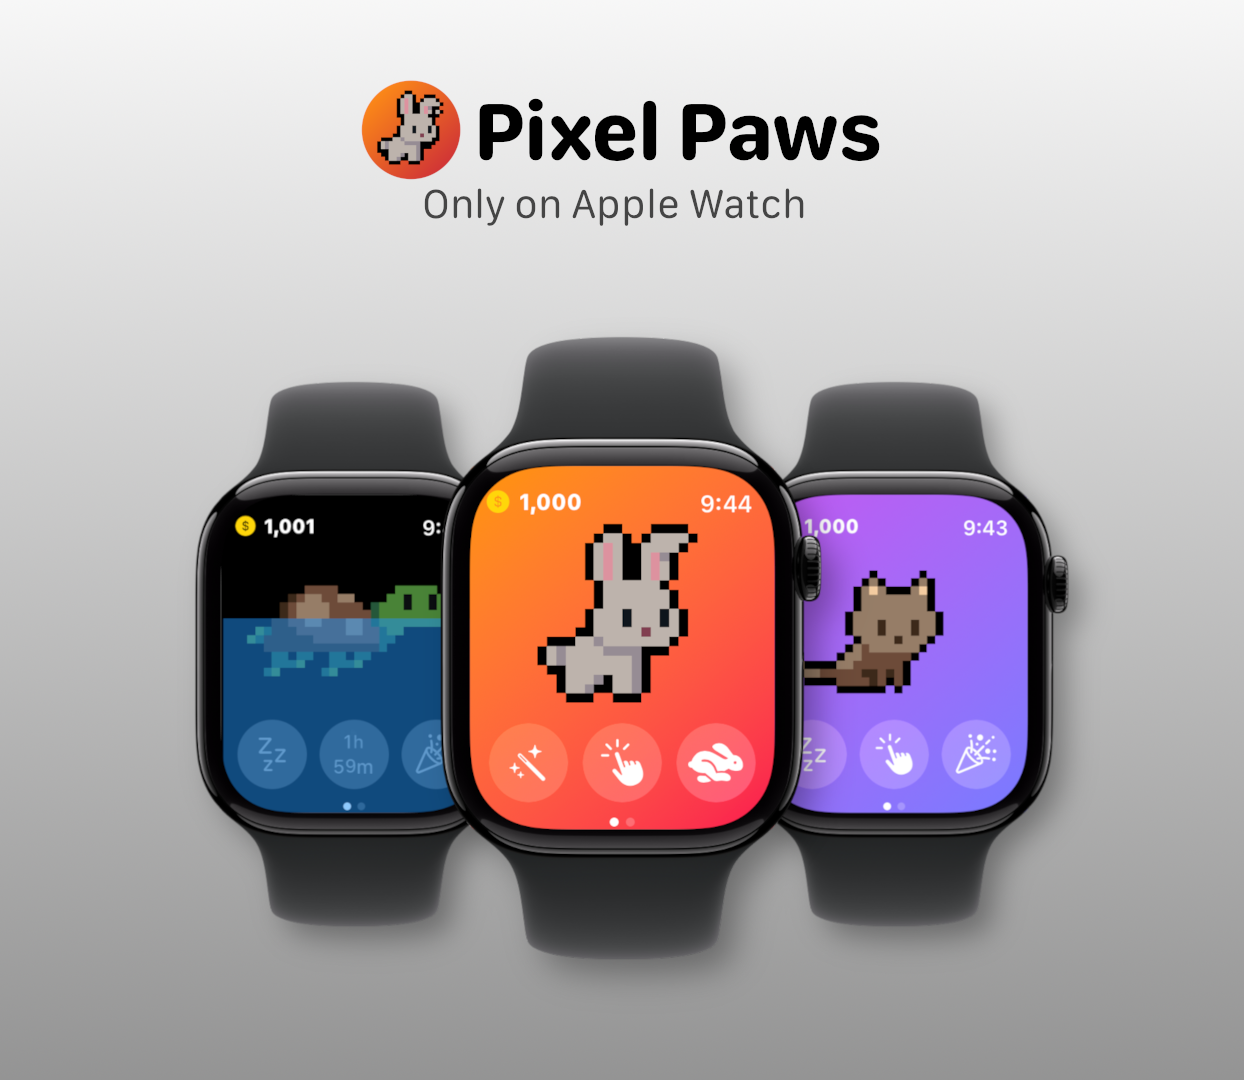
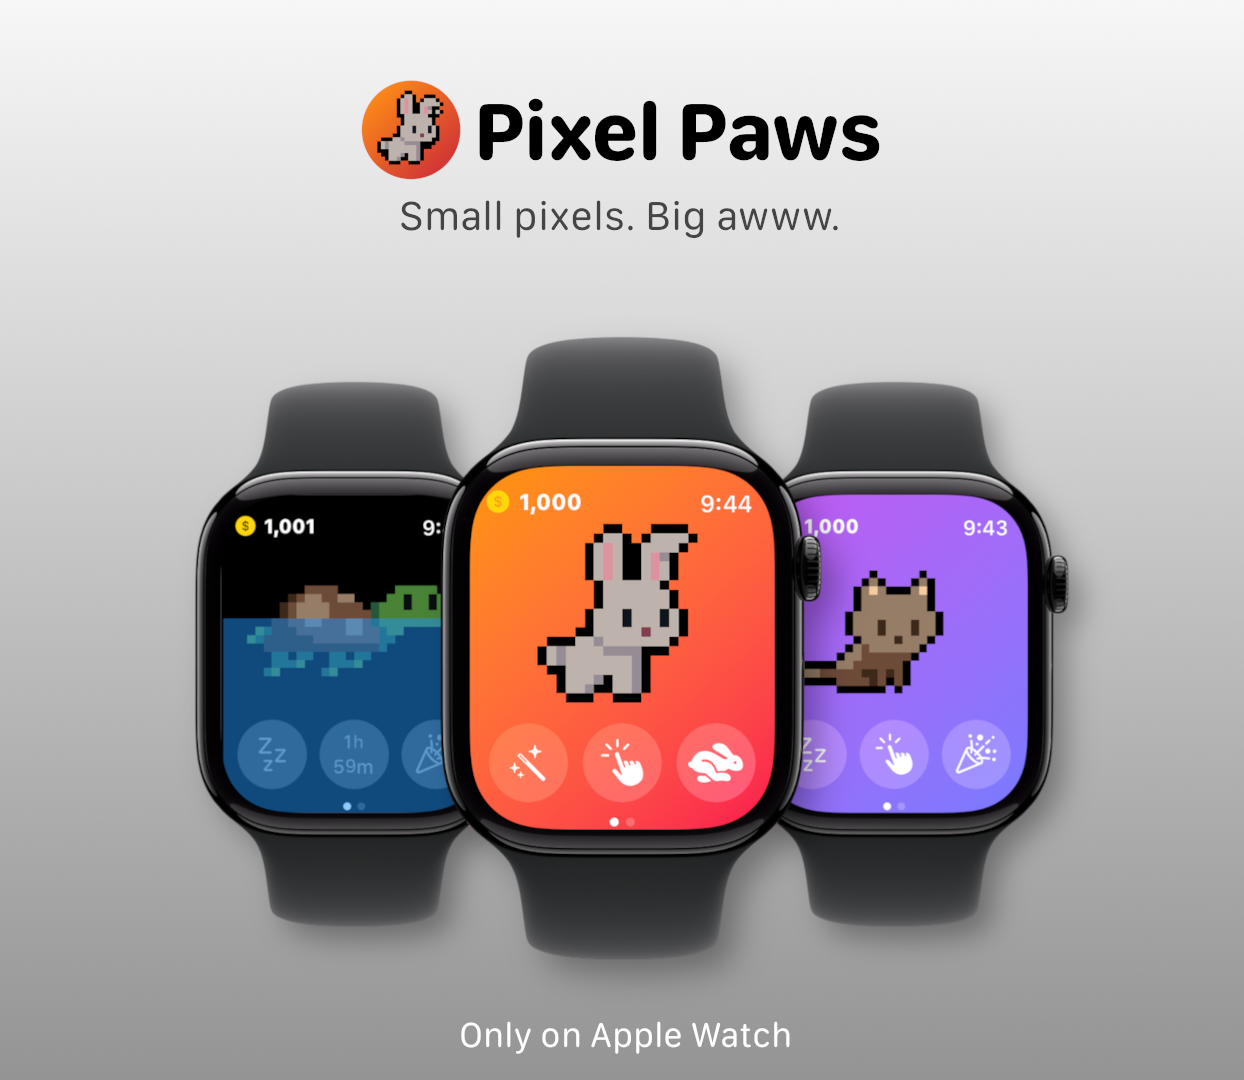
RC

Changed region(s): [[0.3055, 0.1833, 0.672, 0.2139], [0.3666, 0.9472, 0.6415, 0.9778]]

diff --git a/_pages/pixelpaws.md b/_pages/pixelpaws.md
@@ -7,5 +7,100 @@ comments: false
 
 ![Pixel Paws](/assets/images/pixelpaws/pixelpaws-promo2.png){:width="80%"}
 
-##### A pixel pet app for kids
-**Coming Soon**
+#### A pixel pet app for kids (and kids at heart)
+**Pre Orders Coming Soon**  
+
+---
+
+Introducing the cutest new app for your Apple Watch -- **Pixel Paws** brings back the joy of classic digital pets, now made for your wrist.
+
+**Made for kids, trusted by parents**  
+No ads. No tracking. No in-app purchases or subscriptions. Just meaningful moments of fun.
+
+**Care, Play, Earn**  
+From breakfast to bedtime, your little pixel friend depends on you. Play with them, walk them, and repeat. Each action works on a **cooldown timer** throughout the day.  
+
+When the timer completes, they're ready for attention again. It’s the perfect balance of fun and freedom, with gentle reminders to check in, care, and connect.
+
+**Play More, Earn More**  
+Every time you care for your Pixel Paw friend — whether it’s feeding, walking, or playtime — you earn coins. These coins unlock new **pets**, playful **backgrounds**, and fun **weather scenes**.
+
+It’s all part of the experience — **no ads**, **no in-app purchases**, and **no real money**. Just meaningful play that rewards consistency, care, and creativity.
+
+#### Users love Pixel Paws
+
+> “I love that the app doesn’t collect any data or even connect to the internet. It feels truly safe.”  
+> *– Beta tester*
+
+> “It’s so cute — my daughter absolutely loves it!”  
+> *– Beta tester*
+
+> “The way you earn coins just by playing has actually helped my kid start to understand saving. Total bonus.”  
+> *– Beta tester*
+
+---
+
+#### Meet Some Of The Pals
+*Choose from 12 adorable companions – your adventure always begins with Mocha!*
+
+<div style="display: flex; flex-wrap: wrap; justify-content: space-evenly; align-items: stretch; text-align: center; margin-top: 2rem; width: 100%;">
+
+  <div style="flex: 0 1 240px; margin: 1rem;">
+    <img src="/assets/images/pixelpaws/mocha.png" alt="Mocha the cat" style="width: 100%; border-radius: 12px;" />
+    <h4>Mocha</h4>
+    <p>Curious, cozy, and always chasing sunbeams.</p>
+  </div>
+
+  <div style="flex: 0 1 240px; margin: 1rem;">
+    <img src="/assets/images/pixelpaws/sheldon.png" alt="Sheldon the turtle" style="width: 100%; border-radius: 12px;" />
+    <h4>Sheldon</h4>
+    <p>Slow and steady — and proud of it.</p>
+  </div>
+
+  <div style="flex: 0 1 240px; margin: 1rem;">
+    <img src="/assets/images/pixelpaws/clover.png" alt="Clover the bunny" style="width: 100%; border-radius: 12px;" />
+    <h4>Clover</h4>
+    <p>Bouncy, bright-eyed, and always up for fun.</p>
+  </div>
+
+</div>
+
+---
+
+#### FAQ
+**Is Pixel Paws kid-friendly?**  
+Absolutely! Pixel Paws is designed specifically for kids, with simple controls, friendly graphics, and safe gameplay.
+
+**Can pets die or faint?**  
+No way! Pixel Paws is all about fun and care — and they're always happy to see you.
+
+**Are there in-app purchases?**  
+No! Pixel Paws has zero in-app purchases. All in-game currency is earned by playing the game.
+
+**Is any personal data collected?**  
+No personal data is collected or stored. The game has no servers and doesn't connect to the internet at all.
+
+**How do I earn coins?**  
+You earn coins by playing the game, caring for your pets, and interacting daily. There's even a daily reward!
+
+**Can I reset my game progress?**  
+Yes, you can reset your game progress anytime from the Settings menu. Be careful—this can't be undone!
+
+**Feedback or support?**  
+We'd love to hear from you! Reach us anytime at support@raktech.app.
+
+---
+
+#### Privacy First. Always.
+No tracking. No ads. No surprises. Just a delightful pixel companion who's happy to see you.  
+
+---
+
+#### About the developer
+Hi I'm Ryan 👋 I made Pixel Paws for a real simple reason: I bought my kids Apple Watches and they thought it would be fun to have a Tamagotchi-type app. After browsing the App Store it became clear there was nothing that met both my kids' criteria, and mine as a parent. 
+
+They wanted a simple game where they could play with pets and unlock new ones. I wanted something private, safe, and low-cost -- with no ads, tracking, or pressure.
+
+So I built Pixel Paws — a tiny game with a big heart. It's made for kids, and kids at heart, who just want something sweet, safe, and a little bit silly on their wrist.
+
+Thanks for checking it out ❤
